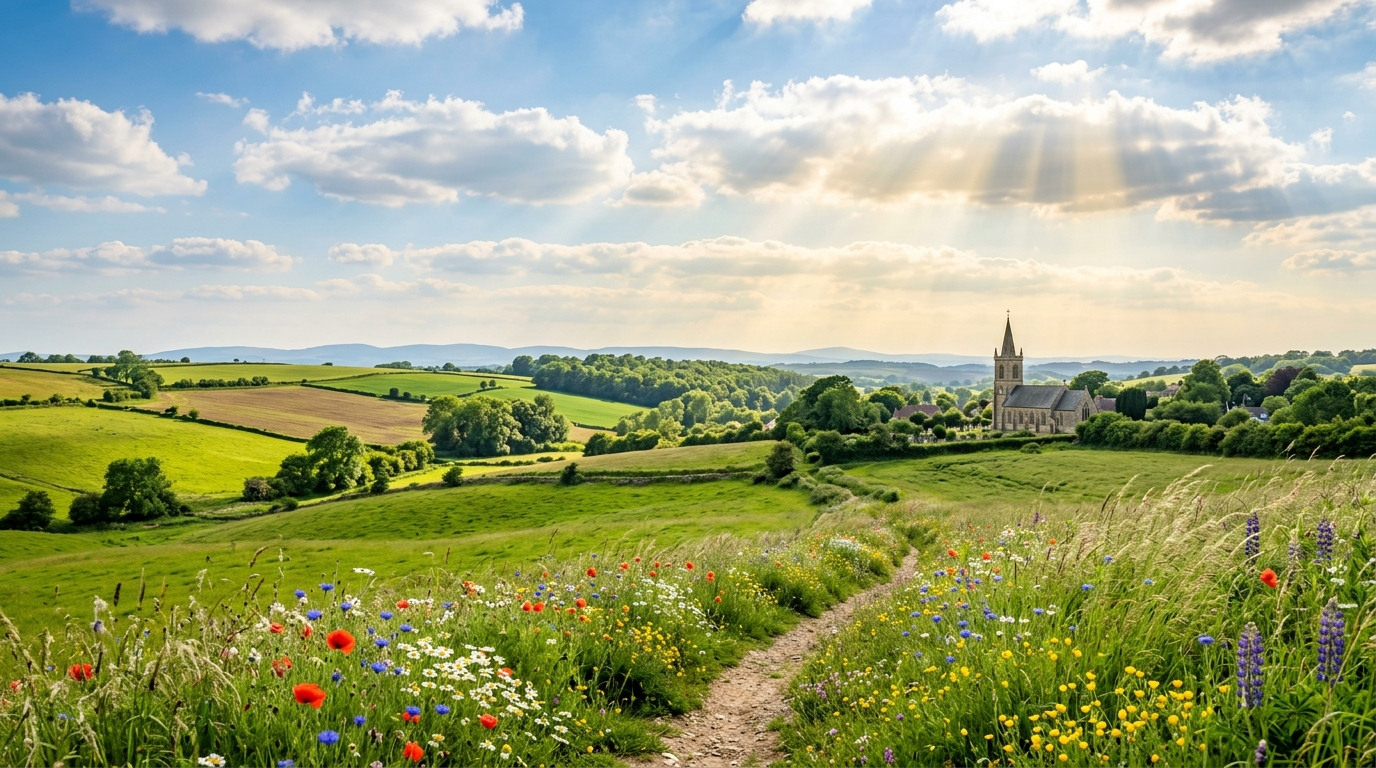
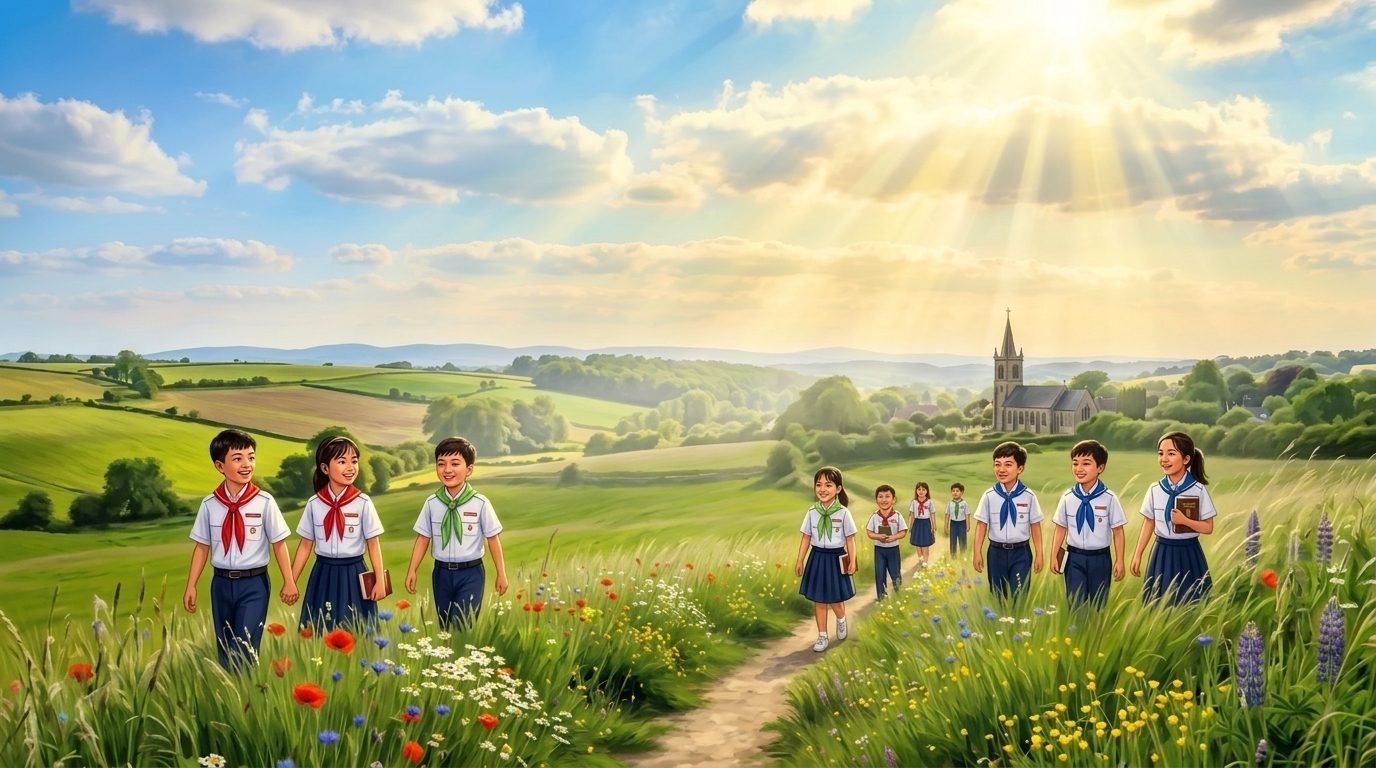
feat(auth): thêm hình ảnh các em giáo lý sinh mang khăn quàng Thiếu Nhi Thánh Thể đang đi lễ nhà thờ vào hình nền đăng nhập

diff --git a/styles.css b/styles.css
@@ -2052,8 +2052,8 @@ input, select, textarea {
    -------------------------------------------------------------------------- */
 body.auth-gate-active {
   background: 
-    radial-gradient(circle at 50% 25%, rgba(255, 255, 255, 0.45) 0%, rgba(224, 242, 254, 0.35) 50%, rgba(15, 23, 42, 0.28) 100%),
-    url('catholic_pastoral_bg.jpg') center top / cover no-repeat fixed !important;
+    radial-gradient(circle at 50% 25%, rgba(255, 255, 255, 0.45) 0%, rgba(224, 242, 254, 0.3) 50%, rgba(15, 23, 42, 0.16) 100%),
+    url('catholic_pastoral_bg.jpg?v=20261010_tntt') center top / cover no-repeat fixed !important;
   min-height: 100vh;
   overflow-x: hidden;
   overflow-y: auto;

diff --git a/index.html b/index.html
@@ -31,7 +31,7 @@
   </script>
   
   <!-- Custom Stylesheet -->
-  <link rel="stylesheet" href="styles.css?v=20261010_v3000">
+  <link rel="stylesheet" href="styles.css?v=20261010_v3100">
 </head>
 <body>
 
